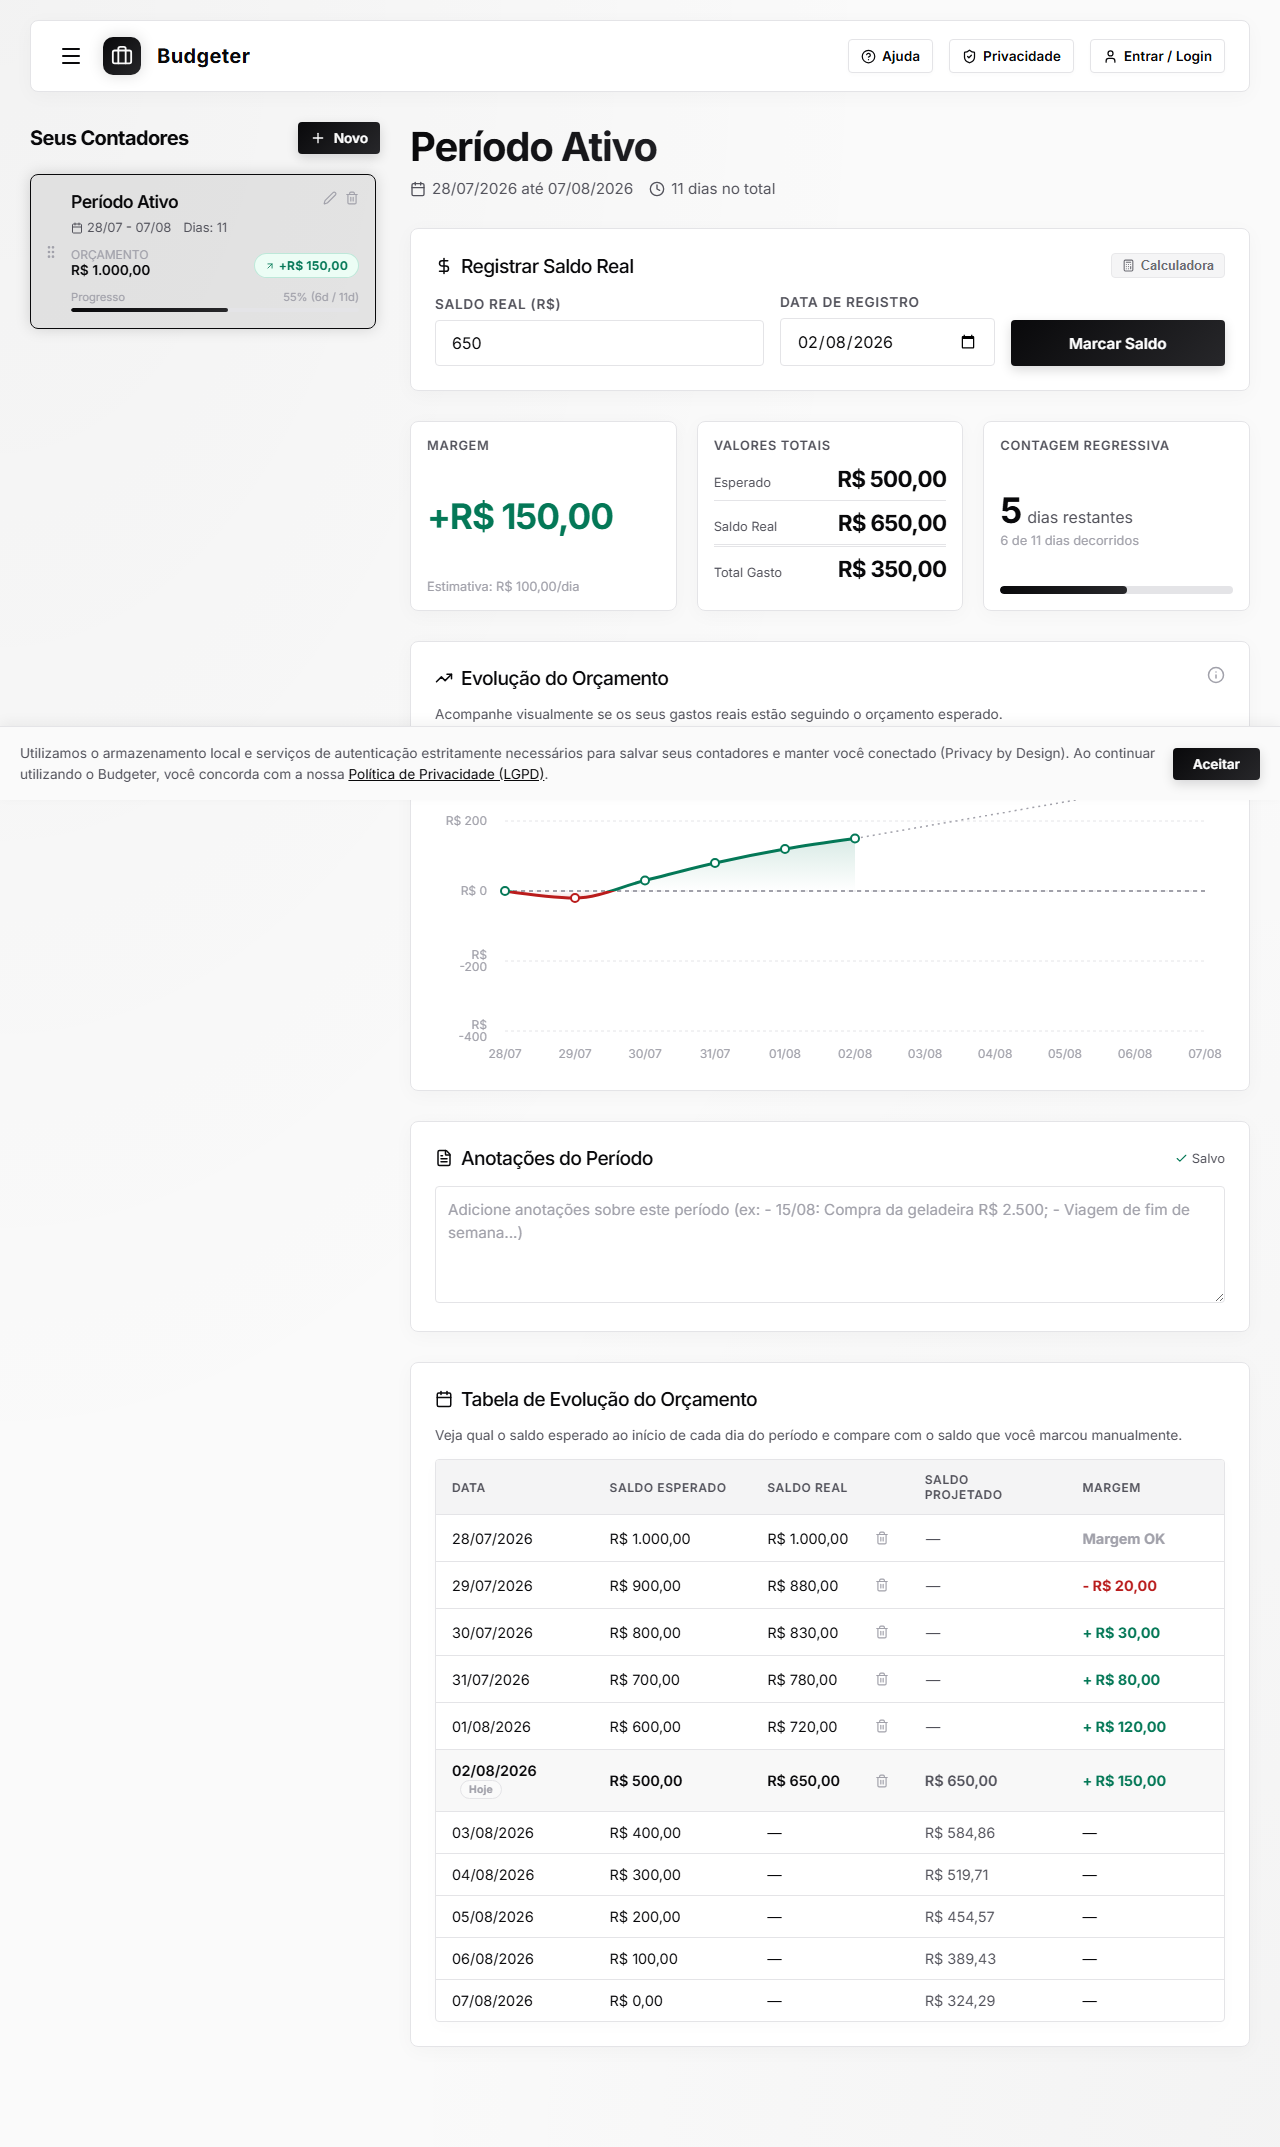
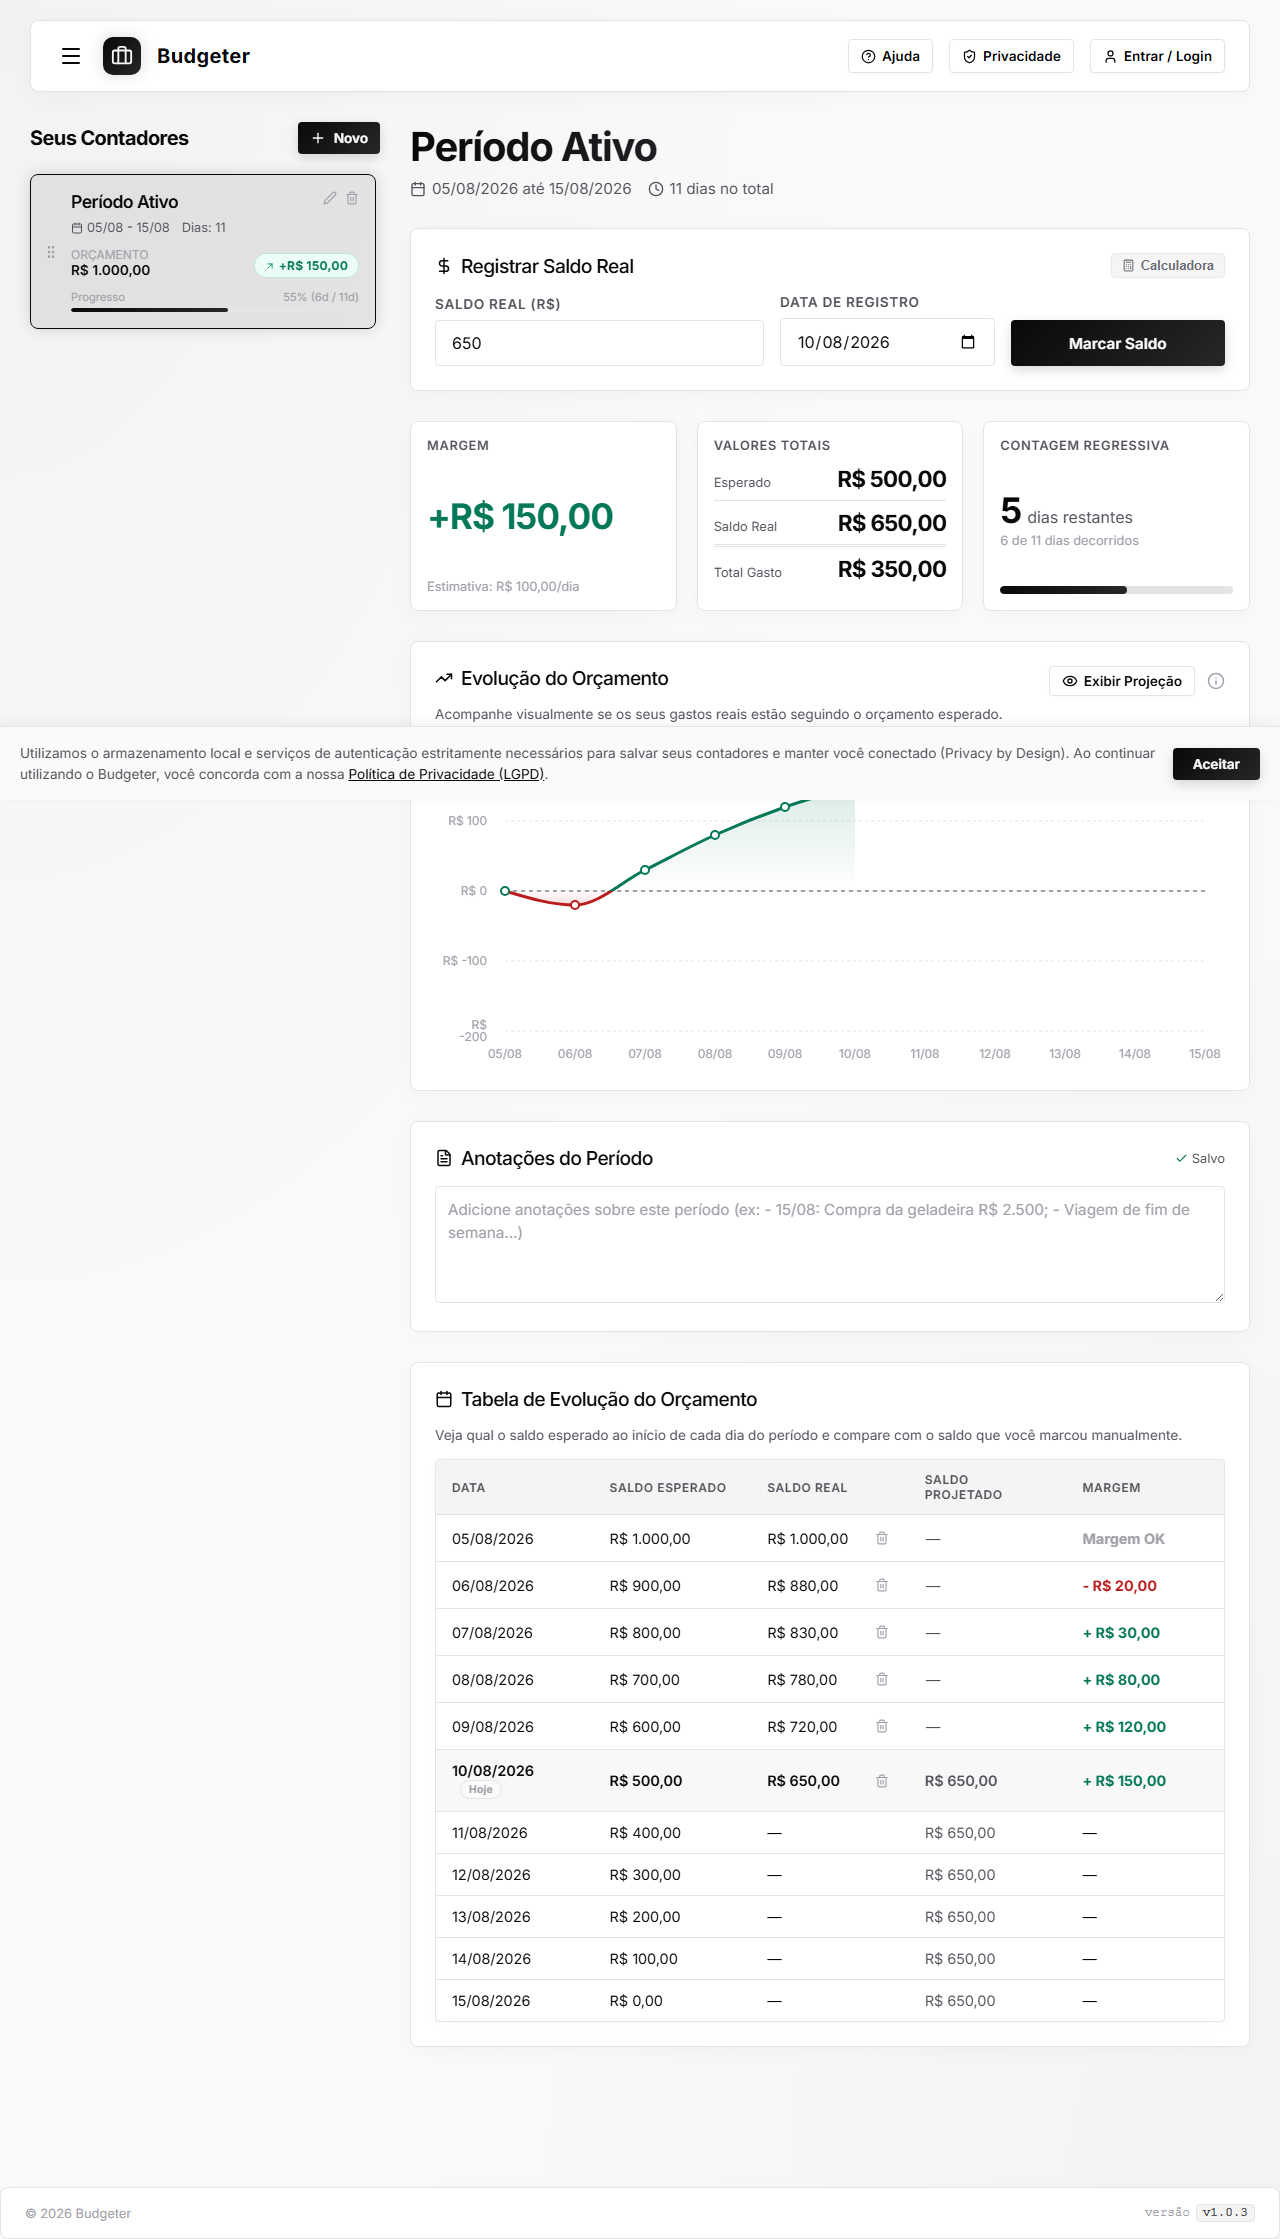
feat: adicionar botão para alternar visibilidade da projeção no gráfico (v1.1.0)

diff --git a/src/components/PeriodDetail.tsx b/src/components/PeriodDetail.tsx
@@ -12,7 +12,9 @@ import {
   Trash2,
   AlertCircle,
   Calculator,
-  ArrowLeft
+  ArrowLeft,
+  Eye,
+  EyeOff
 } from 'lucide-react';
 import { 
   ComposedChart, 
@@ -46,6 +48,7 @@ export const PeriodDetail: React.FC<PeriodDetailProps> = ({
   const [submitting, setSubmitting] = useState(false);
   const [successMsg, setSuccessMsg] = useState(false);
   const [showChartHelp, setShowChartHelp] = useState(false);
+  const [showProjection, setShowProjection] = useState(false);
   const [isMobile, setIsMobile] = useState(window.innerWidth <= 768);
   const [deleteTargetDate, setDeleteTargetDate] = useState<string | null>(null);
   const [deleting, setDeleting] = useState(false);
@@ -256,7 +259,7 @@ export const PeriodDetail: React.FC<PeriodDetailProps> = ({
       if (d.Real > maxMargin) maxMargin = d.Real;
       if (d.Real < minMargin) minMargin = d.Real;
     }
-    if (d.Projetado !== null) {
+    if (showProjection && d.Projetado !== null) {
       if (d.Projetado > maxMargin) maxMargin = d.Projetado;
       if (d.Projetado < minMargin) minMargin = d.Projetado;
     }
@@ -375,7 +378,7 @@ export const PeriodDetail: React.FC<PeriodDetailProps> = ({
               <span style={{ fontWeight: 600 }}>{data.Real !== null ? formatCurrency(data.Real) : '-'}</span>
             </div>
 
-            {data.Projetado !== null && data.Real === null && (
+            {showProjection && data.Projetado !== null && data.Real === null && (
               <div style={{ color: 'var(--text-muted)', display: 'flex', justifyContent: 'space-between', gap: '16px' }}>
                 <span>Margem Projetada:</span>
                 <span style={{ fontWeight: 600 }}>{formatCurrency(data.Projetado)}</span>
@@ -400,7 +403,7 @@ export const PeriodDetail: React.FC<PeriodDetailProps> = ({
                 <span>Saldo Esperado Absoluto:</span>
                 <span>{formatCurrency(data._rawEsperado)}</span>
               </div>
-              {data._rawProjetado !== null && data._rawReal === undefined && (
+              {showProjection && data._rawProjetado !== null && data._rawReal === undefined && (
                 <div style={{ display: 'flex', justifyContent: 'space-between', gap: '16px' }}>
                   <span>Saldo Projetado Absoluto:</span>
                   <span>{formatCurrency(data._rawProjetado)}</span>
@@ -820,7 +823,7 @@ export const PeriodDetail: React.FC<PeriodDetailProps> = ({
 
       {/* SECTION 6: Chart (New Feature) */}
       <div className="glass animate-in delay-300" style={{ padding: isMobile ? '16px 12px' : '24px' }}>
-        <div style={{ display: 'flex', justifyContent: 'space-between', alignItems: 'flex-start' }}>
+        <div style={{ display: 'flex', justifyContent: 'space-between', alignItems: 'flex-start', flexWrap: 'wrap', gap: '12px' }}>
           <div>
             <h3 style={{ fontSize: '1.2rem', marginBottom: '16px', display: 'flex', alignItems: 'center', gap: '8px' }}>
               <TrendingUp size={18} style={{ color: 'var(--color-primary)' }} /> Evolução do Orçamento
@@ -830,12 +833,30 @@ export const PeriodDetail: React.FC<PeriodDetailProps> = ({
             </p>
           </div>
           
-          <div 
-            style={{ position: 'relative', display: 'flex', alignItems: 'center', cursor: 'help' }}
-            onMouseEnter={() => setShowChartHelp(true)}
-            onMouseLeave={() => setShowChartHelp(false)}
-            onClick={() => setShowChartHelp(!showChartHelp)}
-          >
+          <div style={{ display: 'flex', alignItems: 'center', gap: '12px' }}>
+            <button
+              type="button"
+              className="btn btn-secondary toggle-projection-btn"
+              onClick={() => setShowProjection(!showProjection)}
+              style={{
+                display: 'inline-flex',
+                alignItems: 'center',
+                gap: '6px',
+                fontSize: '0.85rem',
+                padding: '6px 12px'
+              }}
+              title={showProjection ? "Ocultar linha de projeção no gráfico" : "Exibir linha de projeção no gráfico"}
+            >
+              {showProjection ? <EyeOff size={16} /> : <Eye size={16} />}
+              <span>{showProjection ? 'Ocultar Projeção' : 'Exibir Projeção'}</span>
+            </button>
+
+            <div 
+              style={{ position: 'relative', display: 'flex', alignItems: 'center', cursor: 'help' }}
+              onMouseEnter={() => setShowChartHelp(true)}
+              onMouseLeave={() => setShowChartHelp(false)}
+              onClick={() => setShowChartHelp(!showChartHelp)}
+            >
             <Info size={18} style={{ color: 'var(--text-muted)' }} />
             
             {showChartHelp && (
@@ -860,6 +881,7 @@ export const PeriodDetail: React.FC<PeriodDetailProps> = ({
             )}
           </div>
         </div>
+      </div>
         
         <div style={{ width: '100%', height: isMobile ? 280 : 320 }}>
           <ResponsiveContainer width="100%" height="100%">
@@ -951,15 +973,17 @@ export const PeriodDetail: React.FC<PeriodDetailProps> = ({
                 strokeDasharray="4 4"
               />
               
-              <Line 
-                name="Projetado" 
-                type="monotone" 
-                dataKey="Projetado" 
-                stroke="var(--text-muted)" 
-                strokeWidth={1.5} 
-                strokeDasharray="2 4" 
-                dot={false} 
-              />
+              {showProjection && (
+                <Line 
+                  name="Projetado" 
+                  type="monotone" 
+                  dataKey="Projetado" 
+                  stroke="var(--text-muted)" 
+                  strokeWidth={1.5} 
+                  strokeDasharray="2 4" 
+                  dot={false} 
+                />
+              )}
               
               <Area 
                 name="Real" 

diff --git a/tests/projection-toggle.spec.ts b/tests/projection-toggle.spec.ts
@@ -1,0 +1,47 @@
+import { test, expect } from '@playwright/test';
+
+test.describe('Botão de Exibir/Ocultar Projeção no Gráfico', () => {
+  test('deve manter a projeção oculta por padrão e exibi-la ao clicar no botão', async ({ page }) => {
+    const mockPeriod = {
+      id: "test-period-projection",
+      name: "Teste Projeção",
+      startDate: "2026-07-01",
+      endDate: "2026-07-31",
+      initialBudget: 4000,
+      finalBudget: 500,
+      currentBalance: 2000,
+      currentBalanceDate: "2026-07-15",
+      balanceHistory: {
+        "2026-07-01": 4000,
+        "2026-07-15": 2000
+      },
+      createdAt: "2026-07-01T10:00:00Z",
+      userId: "teste"
+    };
+
+    // Carrega os dados via localStorage usando addInitScript (conforme AGENTS.md)
+    await page.addInitScript((data) => {
+      window.localStorage.setItem('budgeter_periods', JSON.stringify([data]));
+      window.localStorage.setItem('budgeter_selected_period_id', data.id);
+    }, mockPeriod);
+
+    await page.goto('/');
+
+    // Verifica se a página carregou
+    await expect(page.locator('h1')).toContainText('Teste Projeção');
+
+    // O botão de projeção deve estar visível e mostrar "Exibir Projeção" por padrão
+    const toggleBtn = page.locator('button.toggle-projection-btn');
+    await expect(toggleBtn).toBeVisible();
+    await expect(toggleBtn).toContainText('Exibir Projeção');
+
+    // Por padrão, a linha/legenda da projeção não deve estar visível ou não renderizada no Recharts
+    // Ao clicar no botão, o texto do botão deve mudar para "Ocultar Projeção"
+    await toggleBtn.click();
+    await expect(toggleBtn).toContainText('Ocultar Projeção');
+
+    // Clicar novamente oculta a projeção
+    await toggleBtn.click();
+    await expect(toggleBtn).toContainText('Exibir Projeção');
+  });
+});
